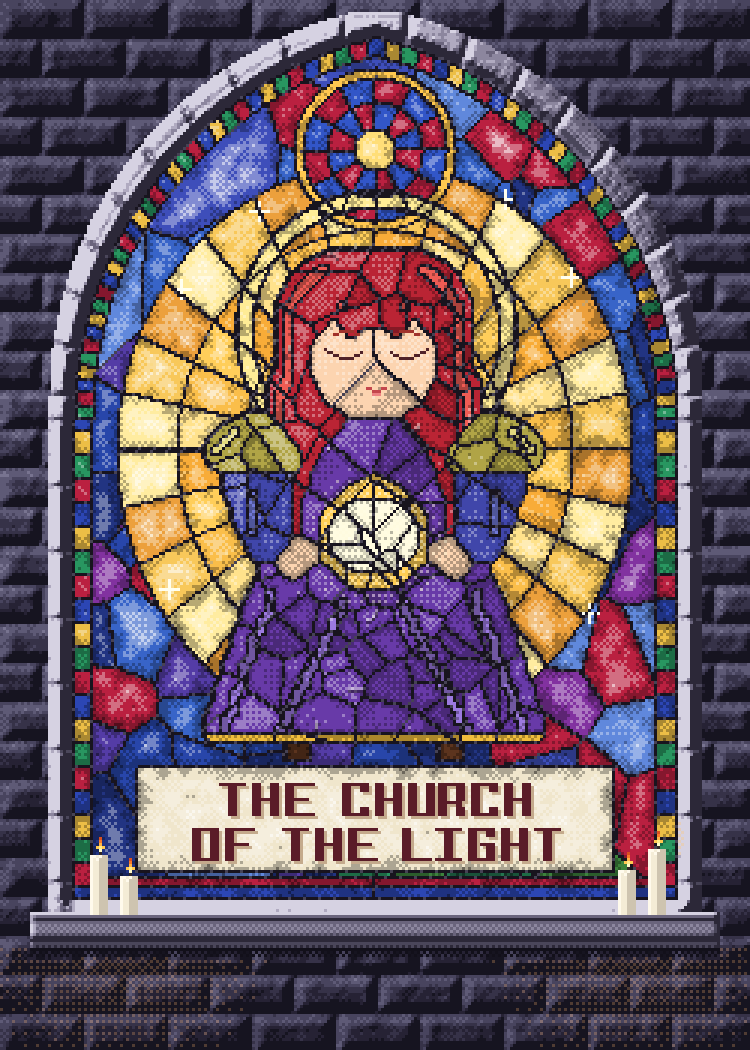
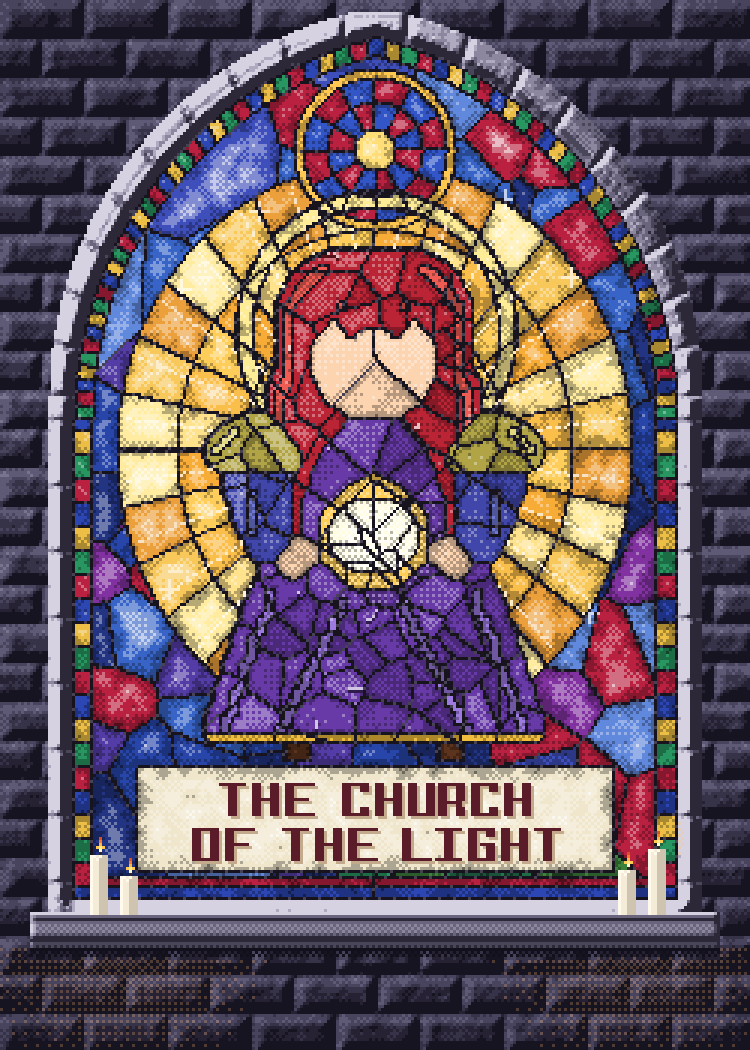
Stained glass: one colour per shard (no painted face, lights/cracks use the shard's own ramp)
Claude-Session: https://claude.ai/code/session_01VrcjmiCcwnRFzcWeEK63jM

diff --git a/data/sleeve-proposals/generator/v2_03_glass.py b/data/sleeve-proposals/generator/v2_03_glass.py
@@ -190,7 +190,10 @@ for y in range(H):
         n=len(ramp)-1; vv=min(0.999,max(0,v))*n; i=int(vv); f=vv-i
         c=ramp[min(n,i+1)] if f>BAYER4[y%4,x%4] else ramp[i]
         cv.px(x,y,c)
-# hairline cracks through some of Johanna's shards
+def piece_ramp(y,x):
+    L_=lab[y,x]
+    return glass_ramp(JCOL[chars[L_-FIG]] if L_>=FIG else color_for(L_))
+# hairline cracks through some of Johanna's shards (darkest/lightest tone of the shard's OWN colour)
 crng=np.random.RandomState(9)
 plist=sorted(set(pid[fig_mask&~lead].ravel().tolist()))
 for p in crng.choice(plist,26,replace=False):
@@ -203,47 +206,36 @@ for p in crng.choice(plist,26,replace=False):
         x+=math.cos(ang); y+=math.sin(ang)
         X,Y=int(round(x)),int(round(y))
         if not (0<=X<W and 0<=Y<H) or pid[Y,X]!=p or lead[Y,X]: break
-        base=tuple(int(v) for v in cv.a[Y,X])
-        cv.px(X,Y,lerp(base,(30,20,36),0.55))
-        if pid[Y-1,X]==p and not lead[Y-1,X]: cv.px(X,Y-1,lerp(tuple(int(v) for v in cv.a[Y-1,X]),(255,255,245),0.45))
+        rp=piece_ramp(Y,X)
+        cv.px(X,Y,rp[0])
+        if pid[Y-1,X]==p and not lead[Y-1,X]: cv.px(X,Y-1,rp[4])
         if crng.rand()<0.12:   # small side branch
             bx,by=X,Y; ba=ang+crng.choice([-1.2,1.2])
             for _ in range(crng.randint(2,5)):
                 bx+=math.cos(ba); by+=math.sin(ba); BX,BY=int(round(bx)),int(round(by))
                 if pid[BY,BX]!=p or lead[BY,BX]: break
-                cv.px(BX,BY,lerp(tuple(int(v) for v in cv.a[BY,BX]),(30,20,36),0.45))
+                cv.px(BX,BY,piece_ramp(BY,BX)[1])
 # painted details on glass (grisaille lines)
-def paint(x,y,c=(40,30,40)):
-    if win[y,x] and not lead[y,x]: cv.px(x,y,c)
+def paint(x,y,c=None):
+    if win[y,x] and not lead[y,x] and lab[y,x]>=0: cv.px(x,y,piece_ramp(y,x)[4])
 # ray panes: radial streaks
 for k in range(28):
     a=(k+0.5)/28*2*math.pi-math.pi
     for r in range(30,84,1):
         x=int(JCX+math.cos(a)*r); y=int(JCY+math.sin(a)*r/0.9)
         if 0<=y<H and lab[y,x]>=0 and lab[y,x]<FIG and inv[lab[y,x]][0]=='ray' and r%3!=0:
-            cv.px(x,y,lerp(tuple(cv.a[y,x]),(255,250,220),0.35))
+            cv.px(x,y,piece_ramp(y,x)[4])
 # ---------- face / hair details (painted) ----------
 ox,oy=FX,FY
 fcx=ox+fw//2
-# eyes (closed, serene) with lashes, brows, blush, nose, lips
-EYE=(80,34,40)
-for sgn in (-1,1):
-    ex=fcx+sgn*10
-    for dx in range(-5,6):
-        yy=oy+37+int(round(2.0*(1-(dx/5.5)**2)))
-        cv.px(ex+dx,yy,EYE)
-    cv.px(ex+sgn*6,oy+37,EYE); cv.px(ex+sgn*7,oy+36,EYE)
-    for dx in range(-4,5): cv.px(ex+dx,oy+31-(1 if abs(dx)<3 else 0),(160,50,44))
-cv.px(fcx,oy+42,(214,160,130)); cv.px(fcx+1,oy+43,(214,160,130))
-for dx in range(-3,4): cv.px(fcx+dx,oy+49+(1 if abs(dx)<2 else 0),(196,70,76))
-for dx in range(-1,2): cv.px(fcx+dx,oy+51,(236,130,130))
-# orb glow
+# orb glow (each shard only brightens within its own colour ramp)
+ox,oy=FX,FY; fcx=ox+fw//2
 ocx,ocy=fcx,oy+100
 for y in range(ocy-26,ocy+27):
     for x in range(ocx-26,ocx+27):
         d=math.hypot(x-ocx,y-ocy)
         if d<24 and win[y,x] and not lead[y,x] and BAYER4[y%4,x%4]<(1-d/24)*0.8:
-            cv.px(x,y,lerp(tuple(cv.a[y,x]),(255,250,220),0.45))
+            cv.px(x,y,piece_ramp(y,x)[3 if d>12 else 4])
 # sparkles in glass
 for (sx,sy) in [(60,96),(190,92),(56,196),(196,204),(86,70),(168,66)]:
     for k in range(-3,4): paint(sx+k,sy,(255,255,240)); paint(sx,sy+k,(255,255,240))
